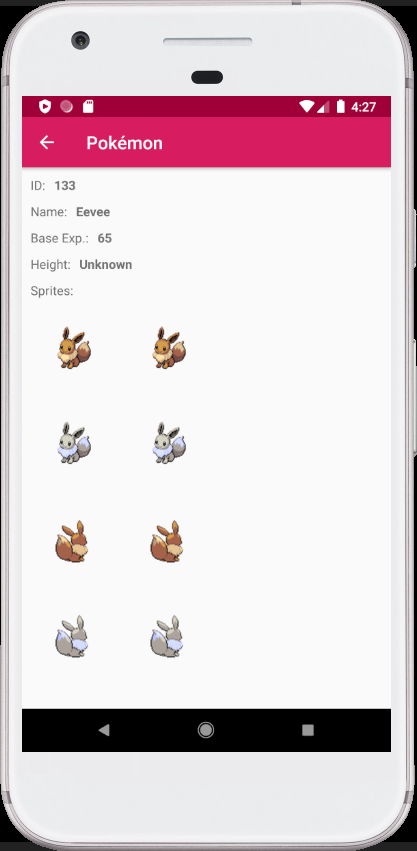
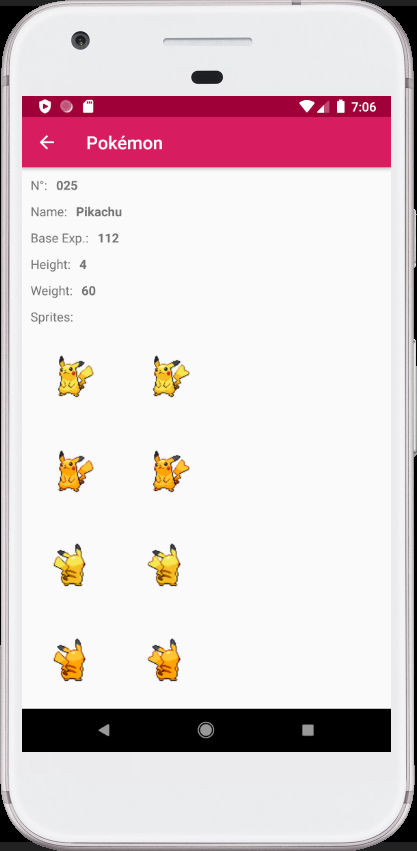
Better Sprites Manager (handle a default sprite)

diff --git a/app/src/main/java/fr/mds/pokeapp/PokemonActivity.java b/app/src/main/java/fr/mds/pokeapp/PokemonActivity.java
@@ -1,6 +1,7 @@
 package fr.mds.pokeapp;
 
 import android.content.Intent;
+import android.graphics.drawable.Drawable;
 import android.os.Bundle;
 import android.widget.ImageView;
 import android.widget.TextView;
@@ -24,6 +25,7 @@ public class PokemonActivity extends AppCompatActivity {
     private TextView tv_pokemon_name;
     private TextView tv_pokemon_base_exp;
     private TextView tv_pokemon_height;
+    private TextView tv_pokemon_weight;
     private ImageView img_pokemon_back_default;
     private ImageView img_pokemon_back_female;
     private ImageView img_pokemon_back_shiny;
@@ -32,6 +34,7 @@ public class PokemonActivity extends AppCompatActivity {
     private ImageView img_pokemon_front_female;
     private ImageView img_pokemon_front_shiny;
     private ImageView img_pokemon_front_shiny_female;
+    private Drawable decamarkSprite;
 
     @Override
     protected void onCreate(Bundle savedInstanceState) {
@@ -45,6 +48,8 @@ public class PokemonActivity extends AppCompatActivity {
         tv_pokemon_id = (TextView) findViewById(R.id.tv_pokemon_id);
         tv_pokemon_name = (TextView) findViewById(R.id.tv_pokemon_name);
         tv_pokemon_base_exp = (TextView) findViewById(R.id.tv_pokemon_base_exp);
+        tv_pokemon_height = (TextView) findViewById(R.id.tv_pokemon_height);
+        tv_pokemon_weight = (TextView) findViewById(R.id.tv_pokemon_weight);
         img_pokemon_back_default = (ImageView) findViewById(R.id.img_pokemon_back_default);
         img_pokemon_back_female = (ImageView) findViewById(R.id.img_pokemon_back_female);
         img_pokemon_back_shiny = (ImageView) findViewById(R.id.img_pokemon_back_shiny);
@@ -53,6 +58,7 @@ public class PokemonActivity extends AppCompatActivity {
         img_pokemon_front_female = (ImageView) findViewById(R.id.img_pokemon_front_female);
         img_pokemon_front_shiny = (ImageView) findViewById(R.id.img_pokemon_front_shiny);
         img_pokemon_front_shiny_female = (ImageView) findViewById(R.id.img_pokemon_front_shiny_female);
+        decamarkSprite = PokemonActivity.this.getResources().getDrawable(R.drawable.decamark);
 
         GetPokemonDataService service = RetrofitInstance.getRetrofitInstance().create(GetPokemonDataService.class);
         Call<Pokemon> call = service.getPokemon(pokemonName);
@@ -75,22 +81,22 @@ public class PokemonActivity extends AppCompatActivity {
         String pokemonName = pokemon.getName();
         Integer pokemonBaseExp = pokemon.getBaseExperience();
         Integer pokemonHeight = pokemon.getHeight();
+        Integer pokemonWeight = pokemon.getWeight();
         PokemonSprites pokemonSprites = pokemon.getSprites();
-        String missingNoSprite = "https://www.pokepedia.fr/images/5/54/Sprite_MissingNo._RV.png";
-        String decamarkSprite = "https://www.pokepedia.fr/images/f/f7/Sprite_%3F%3F%3F%3F%3F%3F%3F%3F%3F%3F_RS.png";
 
         tv_pokemon_id.setText(String.format("%03d", pokemonId));
         tv_pokemon_name.setText(pokemonName.substring(0, 1).toUpperCase() + pokemonName.substring(1));
         tv_pokemon_base_exp.setText(Integer.toString(pokemonBaseExp));
-        //tv_pokemon_height.setText(Integer.toString(pokemonHeight));    // It doesn't works for some reason...
-        Picasso.get().load(pokemonSprites.getBackDefault() != null ? pokemonSprites.getBackDefault() : decamarkSprite).into(img_pokemon_back_default);
-        Picasso.get().load(pokemonSprites.getBackDefault() == null ? decamarkSprite : (pokemonSprites.getBackFemale() != null ? pokemonSprites.getBackFemale() : pokemonSprites.getBackDefault())).into(img_pokemon_back_female);
-        Picasso.get().load(pokemonSprites.getBackShiny() != null ? pokemonSprites.getBackShiny() : decamarkSprite).into(img_pokemon_back_shiny);
-        Picasso.get().load(pokemonSprites.getBackShiny() == null ? decamarkSprite : (pokemonSprites.getBackShinyFemale() != null ? pokemonSprites.getBackShinyFemale() : pokemonSprites.getBackShiny())).into(img_pokemon_back_shiny_female);
-        Picasso.get().load(pokemonSprites.getFrontDefault() != null ? pokemonSprites.getFrontDefault() : decamarkSprite).into(img_pokemon_front_default);
-        Picasso.get().load(pokemonSprites.getFrontDefault() == null ? decamarkSprite : (pokemonSprites.getFrontFemale() != null ? pokemonSprites.getFrontFemale() : pokemonSprites.getFrontDefault())).into(img_pokemon_front_female);
-        Picasso.get().load(pokemonSprites.getFrontShiny() != null ? pokemonSprites.getFrontShiny() : decamarkSprite).into(img_pokemon_front_shiny);
-        Picasso.get().load(pokemonSprites.getFrontShiny() == null ? decamarkSprite : (pokemonSprites.getFrontShinyFemale() != null ? pokemonSprites.getFrontShinyFemale() : pokemonSprites.getFrontShiny())).into(img_pokemon_front_shiny_female);
+        tv_pokemon_height.setText(Integer.toString(pokemonHeight));
+        tv_pokemon_weight.setText(Integer.toString(pokemonWeight));
+        Picasso.get().load(pokemonSprites.getBackDefault()).placeholder(decamarkSprite).error(decamarkSprite).into(img_pokemon_back_default);
+        Picasso.get().load(pokemonSprites.getBackFemale()).placeholder(decamarkSprite).error(decamarkSprite).into(img_pokemon_back_female);
+        Picasso.get().load(pokemonSprites.getBackShiny()).placeholder(decamarkSprite).error(decamarkSprite).into(img_pokemon_back_shiny);
+        Picasso.get().load(pokemonSprites.getBackShinyFemale()).placeholder(decamarkSprite).error(decamarkSprite).into(img_pokemon_back_shiny_female);
+        Picasso.get().load(pokemonSprites.getFrontDefault()).placeholder(decamarkSprite).error(decamarkSprite).into(img_pokemon_front_default);
+        Picasso.get().load(pokemonSprites.getFrontFemale()).placeholder(decamarkSprite).error(decamarkSprite).into(img_pokemon_front_female);
+        Picasso.get().load(pokemonSprites.getFrontShiny()).placeholder(decamarkSprite).error(decamarkSprite).into(img_pokemon_front_shiny);
+        Picasso.get().load(pokemonSprites.getFrontShinyFemale()).placeholder(decamarkSprite).error(decamarkSprite).into(img_pokemon_front_shiny_female);
     }
 
 }

diff --git a/app/src/main/java/fr/mds/pokeapp/adapter/PokedexAdapter.java b/app/src/main/java/fr/mds/pokeapp/adapter/PokedexAdapter.java
@@ -2,6 +2,7 @@ package fr.mds.pokeapp.adapter;
 
 import android.content.Context;
 import android.content.Intent;
+import android.graphics.drawable.Drawable;
 import android.view.LayoutInflater;
 import android.view.View;
 import android.view.ViewGroup;
@@ -22,10 +23,12 @@ public class PokedexAdapter extends RecyclerView.Adapter<PokedexAdapter.CustomVi
 
     private List<PokedexResults> pokemonList;
     private Context context;
+    private Drawable decamarkSprite;
 
     public PokedexAdapter(Context context, List<PokedexResults> pokemonList) {
         this.context = context;
         this.pokemonList = pokemonList;
+        this.decamarkSprite = context.getResources().getDrawable(R.drawable.decamark);
     }
 
     class CustomViewHolder extends RecyclerView.ViewHolder {
@@ -51,6 +54,7 @@ public class PokedexAdapter extends RecyclerView.Adapter<PokedexAdapter.CustomVi
         final View pokemonView = layoutInflater.inflate(R.layout.item_pokemon, parent, false);
         final CustomViewHolder holder = new CustomViewHolder(pokemonView);
 
+        holder.setIsRecyclable(false);
         pokemonView.setOnClickListener(new View.OnClickListener() {
             @Override
             public void onClick(View v) {
@@ -68,10 +72,11 @@ public class PokedexAdapter extends RecyclerView.Adapter<PokedexAdapter.CustomVi
     public void onBindViewHolder(CustomViewHolder holder, int position) {
         Integer pokemonId = pokemonList.get(position).getId();
         String pokemonName = pokemonList.get(position).getName();
+        String pokemonSprite = "https://raw.githubusercontent.com/PokeAPI/sprites/master/sprites/pokemon/" + pokemonId + ".png";
 
         holder.tv_pokemon_id.setText(String.format("%03d", pokemonId));
         holder.tv_pokemon_name.setText(pokemonName.substring(0, 1).toUpperCase() + pokemonName.substring(1));
-        Picasso.get().load("https://raw.githubusercontent.com/PokeAPI/sprites/master/sprites/pokemon/" + pokemonId + ".png").into(holder.img_pokemon);
+        Picasso.get().load(pokemonSprite).placeholder(decamarkSprite).error(decamarkSprite).into(holder.img_pokemon);
     }
 
     @Override

diff --git a/app/src/main/java/fr/mds/pokeapp/model/PokemonSprites.java b/app/src/main/java/fr/mds/pokeapp/model/PokemonSprites.java
@@ -41,14 +41,14 @@ public class PokemonSprites implements Serializable {
     }
 
     // Getters
-    public String getBackDefault() { return back_default; }
-    public String getBackFemale() { return back_female; }
-    public String getBackShiny() { return back_shiny; }
-    public String getBackShinyFemale() { return back_shiny_female; }
-    public String getFrontDefault() { return front_default; }
-    public String getFrontFemale() { return front_female; }
-    public String getFrontShiny() { return front_shiny; }
-    public String getFrontShinyFemale() { return front_shiny_female; }
+    public String getBackDefault() { return (back_default != null ? back_default : DECAMARK_SPRITE); }
+    public String getBackFemale() { return (back_female != null ? back_female : (back_default != null ? back_default : DECAMARK_SPRITE)); }
+    public String getBackShiny() { return (back_shiny != null ? back_shiny : DECAMARK_SPRITE); }
+    public String getBackShinyFemale() { return (back_shiny_female != null ? back_shiny_female : (back_shiny != null ? back_shiny : DECAMARK_SPRITE)); }
+    public String getFrontDefault() { return (front_default != null ? front_default : DECAMARK_SPRITE); }
+    public String getFrontFemale() { return (front_female != null ? front_female : (front_default != null ? front_default : DECAMARK_SPRITE)); }
+    public String getFrontShiny() { return (front_shiny != null ? front_shiny : DECAMARK_SPRITE); }
+    public String getFrontShinyFemale() { return (front_shiny_female != null ? front_shiny_female : (front_shiny != null ? front_shiny : DECAMARK_SPRITE)); }
 
     // Setters
     public void setBackDefault(String back_default) { this.back_default = back_default; }

diff --git a/app/src/main/java/fr/mds/pokeapp/model/Pokemon.java b/app/src/main/java/fr/mds/pokeapp/model/Pokemon.java
@@ -14,17 +14,20 @@ public class Pokemon implements Serializable {
     private Integer base_experience;
     @SerializedName("height")
     private Integer height;
+    @SerializedName("weight")
+    private Integer weight;
     @SerializedName("sprites")
     private PokemonSprites sprites;
 
     public Pokemon() {
     }
 
-    public Pokemon(Integer id, String name, Integer base_experience, Integer height, PokemonSprites sprites) {
+    public Pokemon(Integer id, String name, Integer base_experience, Integer height, Integer weight, PokemonSprites sprites) {
         this.id = id;
         this.name = name;
         this.base_experience = base_experience;
         this.height = height;
+        this.weight = weight;
         this.sprites = sprites;
     }
 
@@ -33,6 +36,7 @@ public class Pokemon implements Serializable {
     public String getName() { return name; }
     public Integer getBaseExperience() { return base_experience; }
     public Integer getHeight() { return height; }
+    public Integer getWeight() { return weight; }
     public PokemonSprites getSprites() { return sprites; }
 
     // Setters
@@ -40,6 +44,7 @@ public class Pokemon implements Serializable {
     public void setName(String name) { this.name = name; }
     public void setBaseExperience(Integer base_experience) { this.base_experience = base_experience; }
     public void setHeight(Integer height) { this.height = height; }
+    public void setWeight(Integer weight) { this.weight = weight; }
     public void setSprites(PokemonSprites sprites) { this.sprites = sprites; }
 
 }

diff --git a/app/src/main/java/fr/mds/pokeapp/PokedexActivity.java b/app/src/main/java/fr/mds/pokeapp/PokedexActivity.java
@@ -3,6 +3,7 @@ package fr.mds.pokeapp;
 import android.content.Context;
 import android.content.Intent;
 import android.os.Bundle;
+import android.os.PersistableBundle;
 import android.view.View;
 import android.widget.Toast;
 

diff --git a/README.md b/README.md
@@ -8,8 +8,8 @@ An Android application displaying informations about Pokémon using the [PokéAP
 <kbd><img width="260" height="530" src="assets/images/PokemonActivity.png" /></kbd>
 
 ### Features
-* **getPokedex()** - Retrieves a list of all Pokémon from PokéAPI (Sprite, ID and Name).
-* **getPokemon()** - Shows all informations about a selected Pokémon (ID, Name, Base Experience, Height and Sprites).
+* **getPokedex()** - Retrieves a list of all Pokémon from PokéAPI (*Sprite*, *Number* and *Name*).
+* **getPokemon()** - Shows all informations about a selected Pokémon (*Number*, *Name*, *Base Experience*, *Height*, *Weight* and *Sprites*).
 
 ### Miscellaneous
 Documentation of *PokéAPI*: https://pokeapi.co/docs/v2.html/
